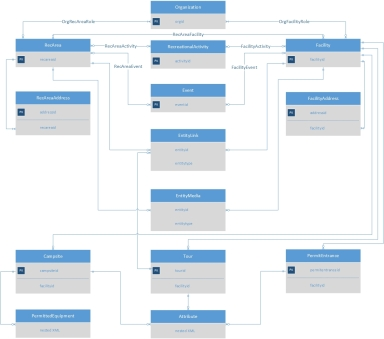
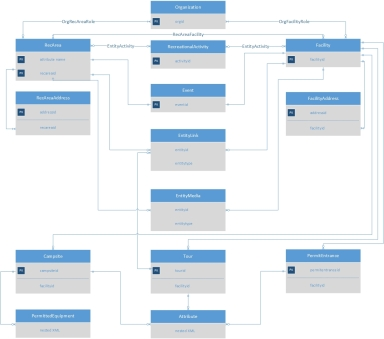
data dictionary and ERD updates

Changed region(s): [[0.0, 0.118, 0.375, 0.236], [0.625, 0.118, 0.6875, 0.1475], [0.5938, 0.177, 0.6562, 0.2065]]

diff --git a/index.html b/index.html
@@ -2965,6 +2965,44 @@ Reminder, the offset parameter is <a href="http://en.wikipedia.org/wiki/Zero-bas
 <td>Organization jurisdiction type</td>
 </tr>
 </tbody></table>
+
+<h2 id='recarea'>OrgEntity</h2>
+<p>Relationship between organizations and recreation areas, and facilities</p>
+
+<table><thead>
+<tr>
+<th>Field Name</th>
+<th>Format</th>
+<th>Length</th>
+<th>Optional</th>
+<th>Description</th>
+</tr>
+</thead><tbody>
+<tr>
+<td>EntityID</td>
+<td>INT</td>
+<td></td>
+<td>N</td>
+<td>RecArea ID or Facility ID</td>
+</tr>
+<tr>
+<td>EntityType</td>
+<td>STRING</td>
+<td>1024</td>
+<td>N</td>
+<td>"Facility" or "RecArea"</td>
+</tr>
+<tr>
+<td>OrgID</td>
+<td>INT</td>
+<td></td>
+<td>N</td>
+<td>The organization ID</td>
+</tr>
+</tbody>
+</table>
+
+
 <h2 id='recarea'>RecArea</h2>
 <p>Recreation area records (e.g. Yosemite National Park, Aldo Leopold Wilderness)                              </p>
 
@@ -2989,7 +3027,7 @@ Reminder, the offset parameter is <a href="http://en.wikipedia.org/wiki/Zero-bas
 <td>INT</td>
 <td></td>
 <td>Y</td>
-<td>Foreign Key: Organization OrgID</td>
+<td>The agency's internal Recreation Area ID</td>
 </tr>
 <tr>
 <td>RecAreaName</td>
@@ -3100,7 +3138,7 @@ Reminder, the offset parameter is <a href="http://en.wikipedia.org/wiki/Zero-bas
 <td>INT</td>
 <td></td>
 <td>N</td>
-<td>Foreign Key: Organization OrgID</td>
+<td>The agency's internal Facility ID</td>
 </tr>
 <tr>
 <td>FacilityName</td>
@@ -3208,8 +3246,58 @@ Reminder, the offset parameter is <a href="http://en.wikipedia.org/wiki/Zero-bas
 <td>Details on the stay limits for the facility</td>
 </tr>
 </tbody></table>
-<h2 id='recareaactivity'>RecAreaActivity</h2>
-<p>Joins recreation areas to associated activities                             </p>
+<h2 id='entityactivity'>EntityActivity</h2>
+<p>Joins recreation areas and facilities to associated activities                             </p>
+
+<table><thead>
+<tr>
+<th>Field Name</th>
+<th>Format</th>
+<th>Length</th>
+<th>Optional</th>
+<th>Description</th>
+</tr>
+</thead><tbody>
+<tr>
+<td>EntityID</td>
+<td>INT</td>
+<td></td>
+<td>N</td>
+<td>Foreign Key: RecArea RecAreaID or Facility FacilityID</td>
+</tr>
+<tr>
+<td>EntityType</td>
+<td>STRING</td>
+<td>1024</td>
+<td>N</td>
+<td>Entity Type. "RecArea" or "Facility"</td>
+</tr>
+<tr>
+<td>ActivityID</td>
+<td>INT</td>
+<td></td>
+<td>N</td>
+<td>Foreign Key: RecreationalActivity ActivityID</td>
+</tr>
+<tr>
+<td>ActivityDescription</td>
+<td>STRING</td>
+<td>1024</td>
+<td>Y</td>
+<td>Description of the activity</td>
+</tr>
+<tr>
+<td>ActivityFeeDescription</td>
+<td>STRING</td>
+<td>1024</td>
+<td>Y</td>
+<td>Text describing monetary charges associated with the activity</td>
+</tr>
+</tbody></table>
+
+
+<h2 id='recareafacility'>RecAreaFacility</h2>
+<p>Joins parent recreation areas to child facilities</p>
 
 <table><thead>
 <tr>
@@ -3228,68 +3316,16 @@ Reminder, the offset parameter is <a href="http://en.wikipedia.org/wiki/Zero-bas
 <td>Foreign Key: RecArea RecAreaID</td>
 </tr>
 <tr>
-<td>ActivityID</td>
-<td>INT</td>
-<td></td>
-<td>N</td>
-<td>Foreign Key: RecreationalActivity ActivityID</td>
-</tr>
-<tr>
-<td>RecAreaActivityDescription</td>
-<td>STRING</td>
-<td>1024</td>
-<td>Y</td>
-<td>Description of the recreational area activity</td>
-</tr>
-<tr>
-<td>RecAreaActivityFeeDescription</td>
-<td>STRING</td>
-<td>1024</td>
-<td>Y</td>
-<td>Text describing monetary charges associated with the activity</td>
-</tr>
-</tbody></table>
-<h2 id='facilityactivity'>FacilityActivity</h2>
-<p>Joins facilities to associated activities                               </p>
-
-<table><thead>
-<tr>
-<th>Field Name</th>
-<th>Format</th>
-<th>Length</th>
-<th>Optional</th>
-<th>Description</th>
-</tr>
-</thead><tbody>
-<tr>
 <td>FacilityID</td>
 <td>INT</td>
 <td></td>
 <td>N</td>
 <td>Foreign Key: Facility FacilityID</td>
 </tr>
-<tr>
-<td>ActivityID</td>
-<td>INT</td>
-<td></td>
-<td>N</td>
-<td>Foreign Key: RecreationalActivity ActivityID</td>
-</tr>
-<tr>
-<td>FacilityActivityDescription</td>
-<td>STRING</td>
-<td>1024</td>
-<td>Y</td>
-<td>Description of the facility activity</td>
-</tr>
-<tr>
-<td>FacilityActivityFeeDescription</td>
-<td>STRING</td>
-<td>1024</td>
-<td>Y</td>
-<td>Text describing monetary charges associated with the activity</td>
-</tr>
-</tbody></table>
+</tbody>
+</table>
+
+
 <h2 id='recreationalactivity'>RecreationalActivity</h2>
 <p>List of all activities                              </p>
 
@@ -3562,6 +3598,20 @@ Reminder, the offset parameter is <a href="http://en.wikipedia.org/wiki/Zero-bas
 <td></td>
 <td>N</td>
 <td>Event ID</td>
+</tr>
+<tr>
+<td>EntityID</td>
+<td>INT</td>
+<td></td>
+<td>N</td>
+<td>Foreign Key: Facility FacilityID or RecArea RecAreaID</td>
+</tr>
+<tr>
+<td>EntityType</td>
+<td>STRING</td>
+<td>1024</td>
+<td>N</td>
+<td>"Facility" or "RecArea"</td>
 </tr>
 <tr>
 <td>EventDataStewardID</td>
